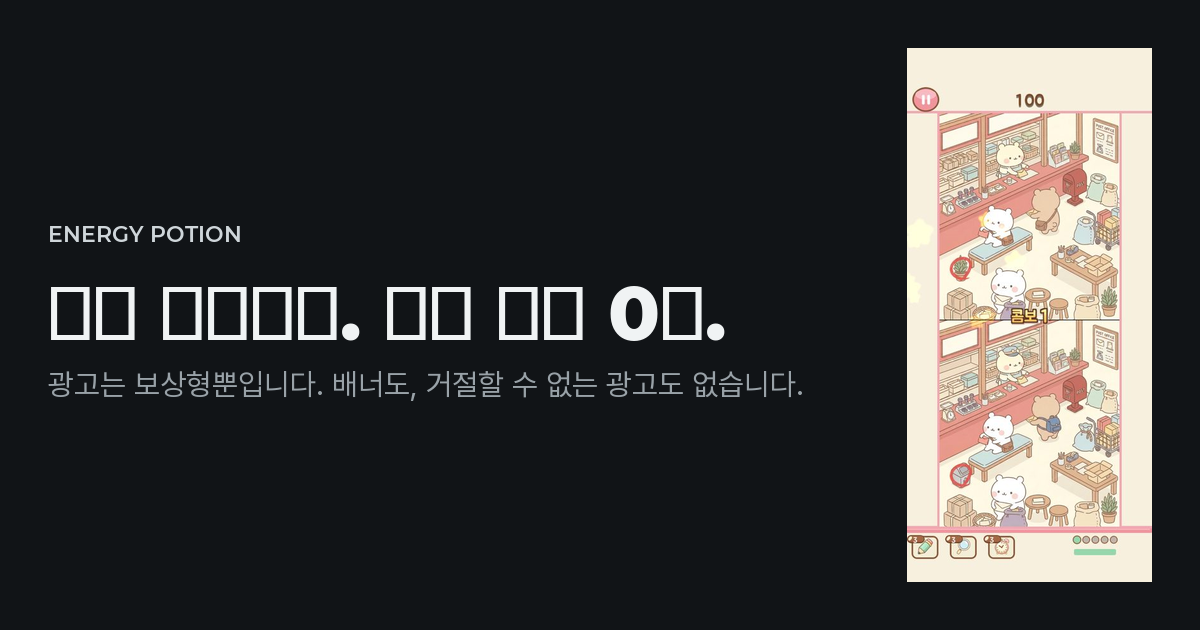
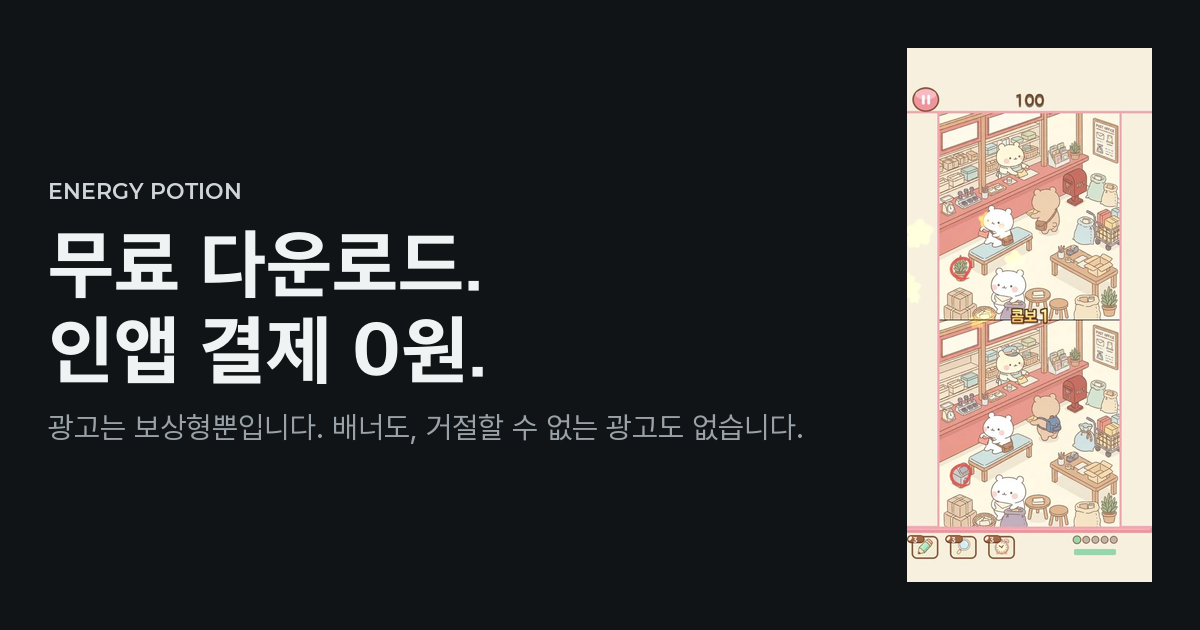
스튜디오 링크 카드의 제목을 한글 글꼴로 그린다
studio.png 의 큰 제목 "무료 다운로드. 인앱 결제 0원." 이 두부(□)로 나왔다.
make_og.py 가 제목을 늘 Montserrat ExtraBold 로 그렸는데, Montserrat 에는
한글이 없다.

제목에 Montserrat 가 못 그리는 글자가 있으면 Apple SD Gothic Neo ExtraBold
로 그린다. ProjectV 폰트에는 Pretendard 가 Regular 뿐이고, 이 글꼴은
site.css 가 Apple 기기에서 한글에 쓰는 것으로 히어로와 같은 800 굵기다.
어느 글꼴에도 없는 글자가 있으면 카드를 만들지 않고 멈춘다.

제목 줄은 index.html 의 <br> 에서 바꾼다. 폭에 맞춰 채우면 "0원." 만
둘째 줄에 남는다. 게임 카드 여섯 장은 바이트까지 그대로다.

Changed region(s): [[0.0308, 0.3619, 0.6783, 0.6333], [0.0308, 0.6635, 0.6783, 0.6937], [0.0308, 0.2714, 0.2158, 0.3317]]

diff --git a/tools/make_og.py b/tools/make_og.py
@@ -10,7 +10,10 @@ page it belongs to.
     python3 tools/make_og.py          # writes assets/og/*.png
 
 Fonts come from ProjectV's Resources (Montserrat for the name, Pretendard for
-the Korean sentence) — the same faces the games use.
+the Korean sentence) — the same faces the games use. Montserrat has no Hangul,
+and ProjectV keeps Pretendard in Regular only, so a Korean name (the studio
+card's headline) is set in Apple SD Gothic Neo ExtraBold: what site.css falls
+back to for Hangul on Apple devices, at the hero's weight 800.
 """
 import json, pathlib, re, subprocess, textwrap
 from PIL import Image, ImageDraw, ImageFont
@@ -19,6 +22,7 @@ ROOT   = pathlib.Path(__file__).resolve().parent.parent
 SHOTS  = ROOT / 'assets/shots'
 OUT    = ROOT / 'assets/og'
 FONTS  = pathlib.Path('/Volumes/ROG-ESD-S1C/Projects/ProjectV/Resources/fonts')
+HANGUL = '/System/Library/Fonts/AppleSDGothicNeo.ttc'     # face 14 is ExtraBold
 
 BG, INK, DIM = (17, 20, 23), (240, 243, 244), (153, 162, 168)
 W, H = 1200, 630
@@ -40,15 +44,34 @@ def apps():
 def font(name, size):
     return ImageFont.truetype(str(FONTS / name), size)
 
+def has_glyphs(f, text):
+    """A face draws a letter it lacks as its .notdef box — the same box it draws
+    for U+FFFF, which no face maps."""
+    def ink(s):
+        im = Image.new('L', (2 * f.size, 2 * f.size))
+        ImageDraw.Draw(im).text((0, 0), s, font=f, fill=255)
+        return im.tobytes()
+    box = ink('\uffff')
+    return all(c.isspace() or ink(c) != box for c in set(text))
+
+def name_font(title):
+    # Checked rather than assumed: a missing letter comes out as a box, and a box
+    # in a card is only seen once the card is already in somebody's feed.
+    for f in (font('Montserrat-ExtraBold.ttf', 76), ImageFont.truetype(HANGUL, 76, index=14)):
+        if has_glyphs(f, title): return f
+    raise SystemExit(f'no face has every letter of {title!r}')
+
 def wrap(draw, text, f, width):
-    lines, line = [], ''
-    for word in text.split():
-        trial = (line + ' ' + word).strip()
-        if draw.textlength(trial, font=f) <= width:
-            line = trial
-        else:
-            lines.append(line); line = word
-    if line: lines.append(line)
+    lines = []
+    for part in text.split('\n'):           # a <br> in the page's copy stays a break
+        line = ''
+        for word in part.split():
+            trial = (line + ' ' + word).strip()
+            if draw.textlength(trial, font=f) <= width:
+                line = trial
+            else:
+                lines.append(line); line = word
+        if line: lines.append(line)
     return lines
 
 def card(path, title, subtitle, shot=None, accent='#cfd6da'):
@@ -67,7 +90,7 @@ def card(path, title, subtitle, shot=None, accent='#cfd6da'):
         im.paste(s, (W - 48 - s.width, 48))
         text_w = W - 96 - s.width - 56
 
-    name_f = font('Montserrat-ExtraBold.ttf', 76)
+    name_f = name_font(title)
     sub_f  = font('Pretendard-Regular.ttf', 30)
     tag_f  = font('Montserrat-SemiBold.ttf', 22)
 
@@ -94,7 +117,9 @@ def main():
     data = apps()
     html = (ROOT / 'index.html').read_text()
     head, line = re.findall(r'<span data-l="ko">(.*?)</span>', html)[:2]
-    card(OUT / 'studio.png', head.replace('<br>', ' '), line, SHOTS / 'catch-catch-ko-2.jpg')
+    # The headline keeps the page's own break. Filled to the column instead, the
+    # Korean one leaves "0원." alone on its second line.
+    card(OUT / 'studio.png', head.replace('<br>', '\n'), line, SHOTS / 'catch-catch-ko-2.jpg')
     for a in data['APPS']:
         if not a.get('feature'): continue
         card(OUT / (a['slug'] + '.png'), a['name'], a['line']['ko'],
